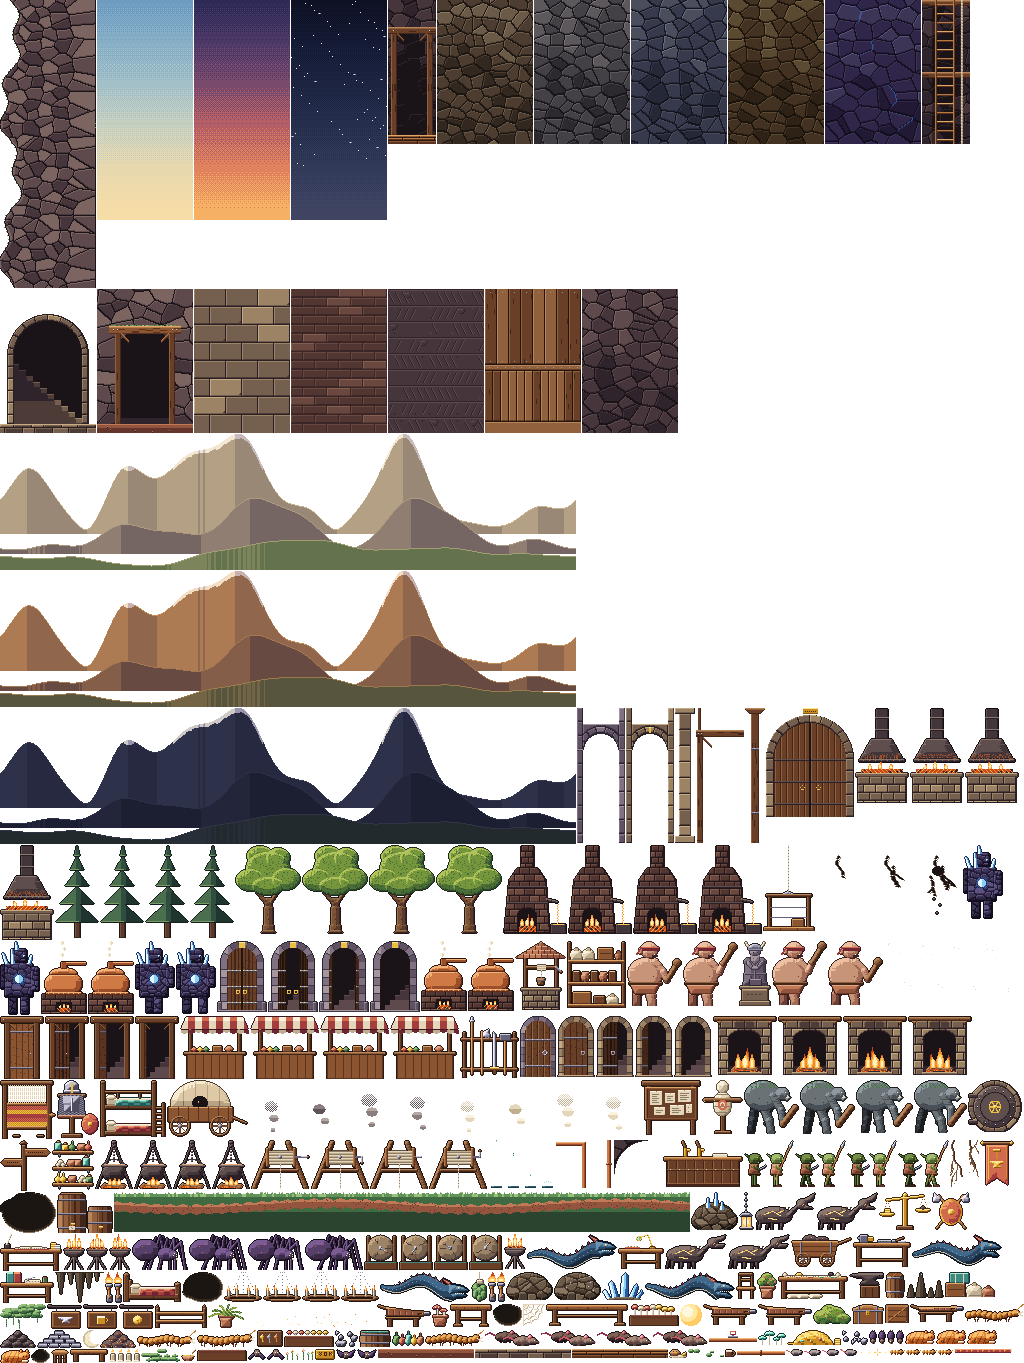
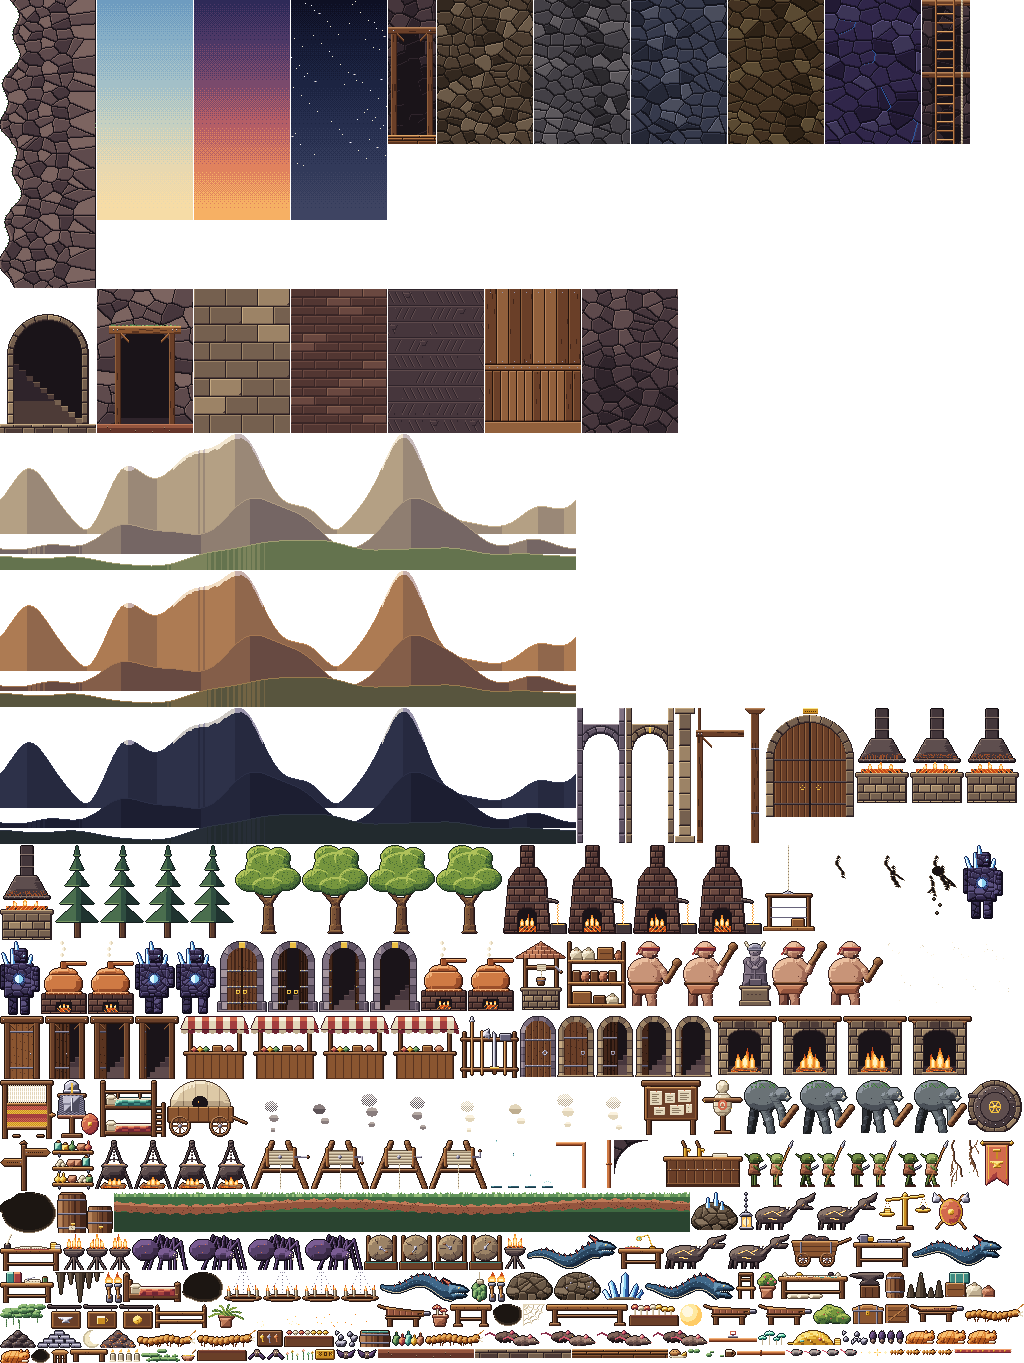
Shaft as stairwells with doors, seamless rock
- The mine shaft is drawn on every floor with the stairwell look (door in
  the back wall, lights, door opens), no more ladders; dwarves already
  went in and out of it like any stairwell
- Rock tiles tile seamlessly top to bottom: no lit joint along the tile
  edges, and stone shades are well mixed (no lighter top, darker bottom)

Claude-Session: https://claude.ai/code/session_011whvJjR5Xu7JHAVy1LPKUD

diff --git a/src/main/resources/static/js/hold.js b/src/main/resources/static/js/hold.js
@@ -141,10 +141,10 @@ function grid() {
   const doorX = ((wellTpl.spots || []).find((s) => s.kind === 'door') || { x: CELL }).x;
   const wells = (L.wells || []).map((k) => { const [c, fl] = k.split(',').map(Number); return { c, f: fl, x: c * CELL + doorX, tpl: wellTpl }; });
   for (const w of wells) for (let dx = 0; dx < 2; dx++) cells.set((w.c + dx) + ',' + w.f, { kind: 'well', well: w });
-  // the mine shaft: a stairwell on every floor, and the way down to the mines
+  // the mine shaft: a stairwell on every floor (same look, a door in the back wall), and the way down to the mines
   const shafts = [];
   for (let fl = 0; fl < plan.floors; fl++) {
-    const s = { c: 0, f: fl, x: plan.shaft * CELL / 2, shaft: true };
+    const s = { c: 0, f: fl, x: doorX, tpl: wellTpl, shaft: true };
     shafts.push(s);
     for (let c = 0; c < plan.shaft; c++) cells.set(c + ',' + fl, { kind: 'shaft', well: s });
   }
@@ -771,8 +771,7 @@ function drawUnderground(ctx, t, g, inRoom) {
     if (v.kind === 'cave') drawCave(ctx, k, c, fl, v.since);
     else { R.drawShell(ctx, v.tpl, c * CELL, ftop(fl), CELL, c * CELL); R.drawProps(ctx, v.tpl, c * CELL, ftop(fl), t + c * 0.37); }
   }
-  for (const s of g.shafts) Art.tile(ctx, 'shaft', 0, ftop(s.f), plan.shaft * CELL);
-  for (const s of g.wells) {
+  for (const s of [...g.shafts, ...g.wells]) {
     const x0 = s.c * CELL, y0 = ftop(s.f), door = doorFrame(s);
     R.drawShell(ctx, s.tpl, x0, y0, 2 * CELL, x0);
     R.drawProps(ctx, s.tpl, x0, y0, t, { frameOf: (p) => (p.s.startsWith('stairdoor') ? door : null) });
@@ -986,8 +985,7 @@ export const holdScreen = {
       const [c, fl] = k.split(',').map(Number);
       out.push(...tplLights(v.tpl, c * CELL, ftop(fl)));
     }
-    for (const w of G_.wells) out.push(...tplLights(w.tpl, w.c * CELL, ftop(w.f)));
-    for (const w of G_.shafts) out.push({ x: w.x, y: ftop(w.f) + 50, r: 70, color: '#ffd98e', flicker: 1, power: 0.5 });
+    for (const w of [...G_.wells, ...G_.shafts]) out.push(...tplLights(w.tpl, w.c * CELL, ftop(w.f)));
     for (const w of [...G_.wells, ...G_.shafts]) {
       if ((wellLit.get(wellKey(w)) || 0) > performance.now()) out.push({ x: w.x, y: ftop(w.f) + 100, r: 50, color: '#ffb070', power: 0.8 });
     }
@@ -1032,7 +1030,7 @@ export const holdScreen = {
       const [c, fl] = k.split(',').map(Number);
       if (seen(c * CELL, ftop(fl), CELL, RH, 40)) R.drawProps(ctx, v.tpl, c * CELL, ftop(fl), t + c * 0.37, { glow: true });
     }
-    for (const w of G_.wells) R.drawProps(ctx, w.tpl, w.c * CELL, ftop(w.f), t, { glow: true, frameOf: (p) => (p.s.startsWith('stairdoor') ? doorFrame(w) : null) });
+    for (const w of [...G_.wells, ...G_.shafts]) R.drawProps(ctx, w.tpl, w.c * CELL, ftop(w.f), t, { glow: true, frameOf: (p) => (p.s.startsWith('stairdoor') ? doorFrame(w) : null) });
     for (const r of G_.rooms) {
       if (!seen(r.x, r.y, r.pw, RH, 40)) continue;
       // what glows in the dark (fire, embers, mushrooms) is not dimmed by the lighting

diff --git a/art-src/props48/shells.py b/art-src/props48/shells.py
@@ -25,7 +25,7 @@ def hsh(*a):
     return v
 def grid(w, h): return np.full((h, w), None, object)
 
-def blocks(ids, ramp, base, joint=0, wrap=True, rim=True):
+def blocks(ids, ramp, base, joint=0, wrap=True, rim=True, wrap_y=False):
     """ids: int array (-1 = empty). base(id) -> tone. Joint pixel where the right or lower neighbour is another block."""
     h, w = ids.shape
     def nb(dy, dx):
@@ -35,7 +35,7 @@ def blocks(ids, ramp, base, joint=0, wrap=True, rim=True):
         out[ys - dy:ye - dy, xs - dx:xe - dx] = ids[ys:ye, xs:xe]
         return out
     r, d, l, u = nb(0, 1), nb(1, 0), nb(0, -1), nb(-1, 0)
-    if wrap: d[-1] = ids[-1]; u[0] = ids[0]             # no joint across the top/bottom of a tile
+    if wrap and not wrap_y: d[-1] = ids[-1]; u[0] = ids[0]   # no joint across the top/bottom of a tile (walls)
     jnt = (ids >= 0) & ((r != ids) | (d != ids))
     g = grid(w, h)
     for y, x in zip(*np.nonzero(ids >= 0)):
@@ -52,9 +52,10 @@ def blocks(ids, ramp, base, joint=0, wrap=True, rim=True):
 def pick(*tones): return lambda i: tones[hsh(i, 7) % len(tones)]
 
 # ------------------------------------------------------------------ walls (96 x 144, period 96)
-def voronoi(w, h, cw, ch, seed, wrap=True):
+def voronoi(w, h, cw, ch, seed, wrap=True, wrap_y=False):
+    """Stones as Voronoi cells, wrap: seamless left to right; wrap_y: also top to bottom (rock that tiles both ways)."""
     pts = []
-    for gy in range(-1, h // ch + 2):
+    for gy in (range(h // ch) if wrap_y else range(-1, h // ch + 2)):
         for gx in range(w // cw):
             k = hsh(gx, gy, seed)
             pts.append((gx * cw + (k % 997) / 997 * cw, gy * ch + (k // 997 % 991) / 991 * ch + (gx % 2) * ch / 2))
@@ -62,7 +63,9 @@ def voronoi(w, h, cw, ch, seed, wrap=True):
     yy, xx = np.mgrid[0:h, 0:w]
     dx = np.abs(xx[..., None] + 0.5 - P[:, 0])
     if wrap: dx = np.minimum(dx, w - dx)
-    dy = (yy[..., None] + 0.5 - P[:, 1]) * 1.25          # stones a little wider than tall
+    dy = np.abs(yy[..., None] + 0.5 - P[:, 1])
+    if wrap_y: dy = np.minimum(dy % h, h - dy % h)
+    dy = dy * 1.25                                       # stones a little wider than tall
     return np.argmin(dx * dx + dy * dy, axis=2)
 def wall_rock(dark=0, w=96, h=RH, seed=3):
     ids = voronoi(w, h, 16, 13, seed)

diff --git a/art-src/props48/rock.py b/art-src/props48/rock.py
@@ -29,8 +29,10 @@ for i, r in enumerate(DEPTHS): R[f'd{i}'] = r
 
 # ------------------------------------------------------------------ rock tiles (96 x 144 like the walls, period 96)
 def rock_tile(d):
-    ids = voronoi(96, RH, 13 + d, 11 + d // 2, 50 + d)
-    g = blocks(ids, f'd{d}', pick(2, 2, 2, 3, 1))
+    ids = voronoi(96, RH, 13 + d, 11 + d // 2, 50 + d, wrap_y=True)   # rock tiles stack: seamless both ways
+    tones = (2, 2, 2, 3, 1)
+    mix = lambda i: (hsh(i, 7, d) * 2654435761 >> 13) % len(tones)  # well mixed: no lighter top, darker bottom
+    g = blocks(ids, f'd{d}', lambda i: tones[mix(i)], wrap_y=True)
     if d == 4:                                                       # the abyss: a few joints glow violet-blue
         for y, x in zip(*np.nonzero((np.roll(ids, -1, 1) != ids))):
             if hsh(ids[y, x], 9) % 16 == 0: g[y, x] = ('crystal', 1)

diff --git a/docs/SPRITES.md b/docs/SPRITES.md
@@ -150,7 +150,9 @@ Räume sind keine fertigen Bilder mehr, sondern werden aus Teilen zusammengesetz
   kein anderes Material dieser Teile eine Platzhalterfarbe hat.
 - **Im Spiel:** `static/js/art48.js` (`load`, `draw`, `frame`, `tile`, `depthRamp`, `names`). `hold.js` lädt Sheet,
   Zwerge und alle Raumvorlagen vor dem ersten Bild (`loadArt()`), zeichnet Himmel, Berge (`mountains_*` nach Tageszeit),
-  Wiese, Bäume, Stand, Brunnen, Fels (`rock_0..4` nach Tiefe), Gänge (`hallway`), Schacht, Treppenhäuser, Tunnel, Tor,
+  Wiese, Bäume, Stand, Brunnen, Fels (`rock_0..4` nach Tiefe, nahtlos in beide Richtungen: `voronoi(..., wrap_y=True)`,
+  `blocks(..., wrap_y=True)` in `rock.py`), Gänge (`hallway`), Schacht (auf jeder Etage die Treppenhaus-Vorlage mit
+  Tür, keine Leitern), Treppenhäuser, Tunnel, Tor,
   Höhlen mit Bewuchs (`moss_*`, `glowshrooms`, `roots`, `stalactites`), Risse beim Graben und Monster. Räume: Hülle
   und hintere Möbel, die Zwerge im Raum, vordere Möbel; die leuchtenden Pixel (`glow`) kommen nach der Lichtschicht.
   Lichter, Rauch, Funken, Dampf und Klickflächen kommen aus den Punkten der Vorlage. Alte Symbole (Status, Pfeile,

diff --git a/docs/TODO.md b/docs/TODO.md
@@ -175,6 +175,10 @@ Siehe die fett gedruckten Namen in `docs/AUDIO.md`: `collect`, `build`, `level-u
 - [x] Renderer: `hold.js` zeichnet Räume aus der Vorlage (`look`), Sitze, Betten, Arbeitsplätze, Lichter, Rauch und
       Klickflächen (Blasebalg, Abschreckfass) aus den Punkten; Auswahl der Vorlage im Raumfenster (`popups.js`).
 - [x] Zweite Vorlage „furnished“ für alle 15 Räume und 8 Erweiterungen (Standard, weil alphabetisch zuerst).
+- [x] Schacht im 48-px-Maßstab ohne Leitern: auf jeder Etage ein Treppenhaus aus der Vorlage (Tür in der Rückwand, wie
+      die gebauten Treppenhäuser).
+- [x] Fels ohne helle Linien an den Kachelkanten und ohne Helligkeitsverlauf je Etage (Voronoi oben/unten nahtlos,
+      Steinfarben gut gemischt).
 - [ ] Mehr Vorlagen je Raum (z. B. nach Stufe), Stufe 2/3 mit mehr Möbeln.
 - [x] Raum-Editor im Spiel (Raumfenster → „Change look“): Liste aller Vorlagen mit Bild, Spieler-Vorlagen auf dem
       Server (`room_templates`), für alle sichtbar, nur vom Ersteller änderbar.
